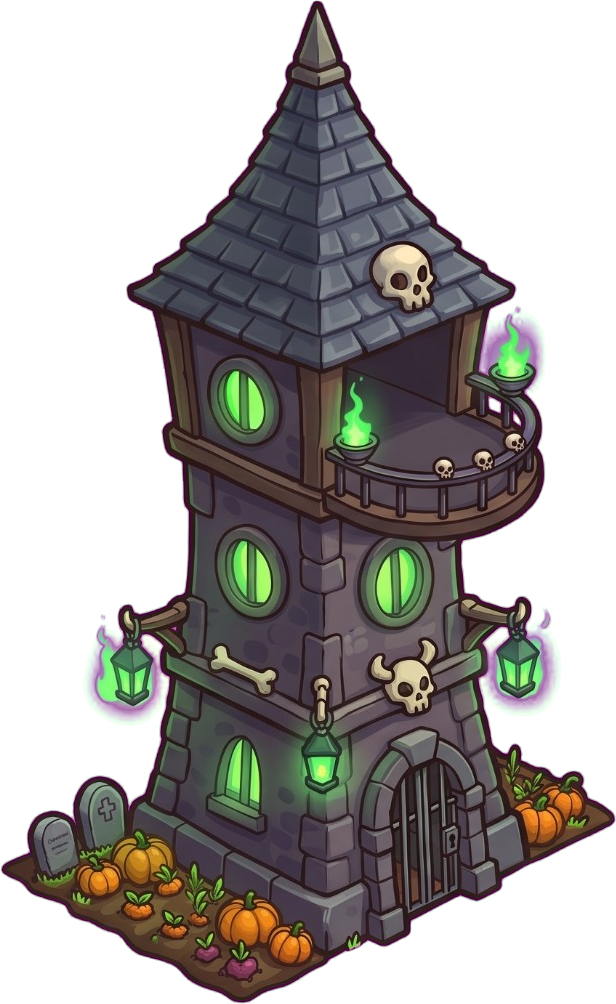
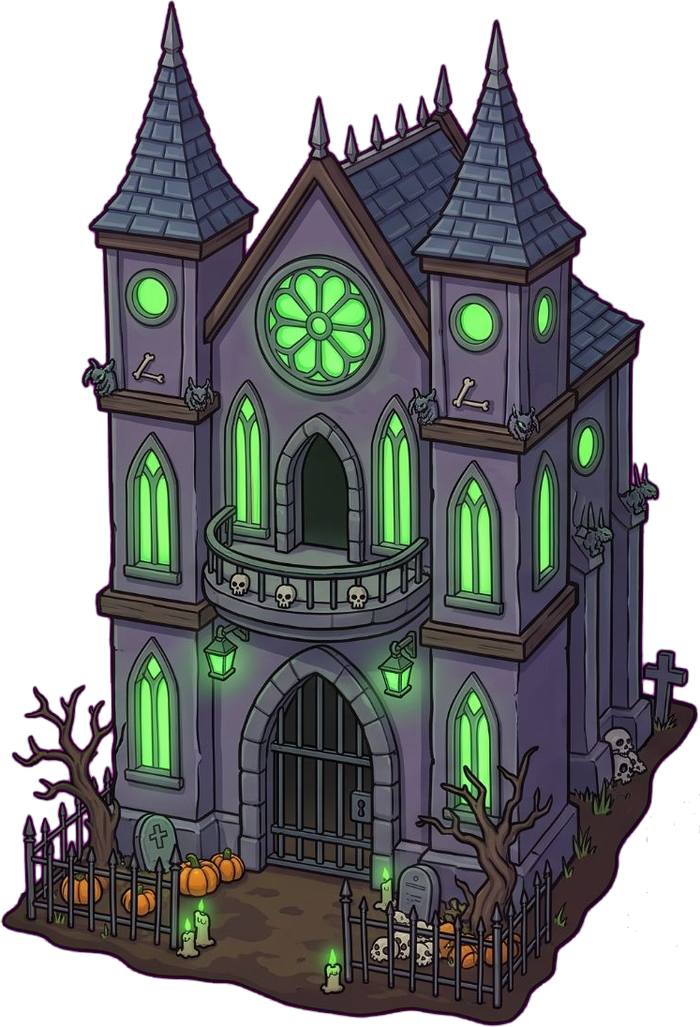
Kale yerine Mortimer'ın kara şapeli (3 hasar evresi, ön balkon yola bakar); Mortimer balkonda doğru boyda, korkuluğun arkasında, evreye göre konumlanır; okçu yerleri şapele göre

diff --git a/sinir-kalesi/js/game.js b/sinir-kalesi/js/game.js
@@ -3149,16 +3149,21 @@ function raiseMinion(e, delay = 0) {
   G.effects.push({ kind: 'pillar', x: e.x, y: e.y, col: '140,255,140', t: 0, dur: 0.7 });
   for (let i = 0; i < 8; i++) emit(G.parts, { kind: 'glow', add: true, x: e.x + rand(-8, 8), y: e.y - rand(0, 20), vy: -rand(20, 45), col: '140,255,120', s0: rand(2, 4), s1: 0.5, life: rand(0.5, 0.9) });
 }
-// Mortimer'ın balkondaki ayak noktası (kule görselinin balkonu)
-// Mortimer kale görselinde balkonun ön kenarına basar (görsel oranı) ve kale genişliğine göre büyük durur
-const MORT_AT = [0.69, 0.47], MORT_H = 62;
-// balkon korkuluğu (görsel oranı x0, y0, x1, y1): Mortimer'dan sonra yeniden çizilir, ayakları korkuluğun arkasında kalır
-const MORT_RAIL = [0.5, 0.458, 0.92, 0.56];
+// Mortimer şapelin ön balkonunda durur. Hasar evresine göre (castle_1..3): at = ayak noktası (görsel oranı),
+// rail = korkuluk dikdörtgeni (x0, y0, x1, y1; Mortimer'dan sonra yeniden çizilir, ayakları korkuluğun arkasında kalır;
+// 3. evrede korkuluk kırık). MORT_PX: Mortimer'ın boyu, kale görselinin pikseliyle (balkon kapısından biraz uzun).
+const MORT_STAGE = [null,
+  { at: [0.454, 0.558], rail: [0.29, 0.548, 0.625, 0.6] },
+  { at: [0.454, 0.562], rail: [0.29, 0.551, 0.625, 0.6] },
+  { at: [0.515, 0.558], rail: null }];
+const MORT_PX = 125;
+function castleStage() { const r = G.lives / G.maxLives; return r > 0.6 ? 1 : r > 0.3 ? 2 : 3; }
+function castleStageSprite() { return spr('castle_' + castleStage()) || spr('castle_1') || spr('tower_barracks_3'); }
 function mortimerPoint() {
-  const c = G.castle, im = castleSprite();
-  if (!im) return { x: c.x, y: c.y - 60 };
-  const cp = castlePlace(c.x, c.y, im), h = cp.w * im.height / im.width;
-  return { x: cp.x - cp.w / 2 + MORT_AT[0] * cp.w, y: cp.y - h + MORT_AT[1] * h };
+  const c = G.castle, im = castleStageSprite();
+  if (!im) return { x: c.x, y: c.y - 60, h: 30 };
+  const cp = castlePlace(c.x, c.y, im), h = cp.w * im.height / im.width, S = MORT_STAGE[castleStage()] || MORT_STAGE[1];
+  return { x: cp.x - cp.w / 2 + S.at[0] * cp.w, y: cp.y - h + S.at[1] * h, h: MORT_PX * cp.w / im.width };
 }
 // büyü düğmesi simgeleri: diriltme = yerden kalkan iskelet, korku = çığlık atan hayalet
 function drawNecroGlyph(id, r) {
@@ -3189,7 +3194,7 @@ function drawNecroGlyph(id, r) {
 function drawMortimer() {
   const im = spr('mortimer');
   if (!im) return;
-  const m = mortimerPoint(), hgt = MORT_H, k = G.mortCast > 0 ? Math.sin(clamp(1 - G.mortCast / 0.9, 0, 1) * Math.PI) : 0;
+  const m = mortimerPoint(), hgt = m.h, k = G.mortCast > 0 ? Math.sin(clamp(1 - G.mortCast / 0.9, 0, 1) * Math.PI) : 0;
   const bob = Math.sin(time * 1.6) * 0.5, face = 1; // önden görünüş: balkondan ekrana/aşağı bakar, aynalanmaz
   // arkasında mor-yeşil büyü halesi: kulenin üstünde belirgin dursun
   ctx.save(); ctx.globalCompositeOperation = 'lighter';
@@ -6593,15 +6598,14 @@ function towerStats(type, L) {
 // Eski yedek görsel (kışla) ise kale noktasına ortalanır.
 function castlePlace(x, y, im) {
   if (im === spr('tower_barracks_3')) return { x, y, w: 118 * BUILD_K };
-  if (NECRO) return { x: x - 43, y: y + 6, w: 96 };
+  if (NECRO) return { x: Math.min(x + 4, 960 - 70), y: y + 30, w: 135 }; // şapel: kapı ortada, kapı eşiği yolun ucunda; ekran kenarına taşmaz
   return { x: x - 15 * BUILD_K, y: y + 10, w: 124 * BUILD_K };
 }
 
 // Kale: Gemini sprite'ı (castle_1..3, hasar evresine göre) yoksa kışlanın en büyük hali yedek olarak kullanılır.
 function drawCastle() {
-  const c = G.castle, ratio = G.lives / G.maxLives;
-  const stage = ratio > 0.6 ? 1 : ratio > 0.3 ? 2 : 3;
-  const im = spr('castle_' + stage) || spr('castle_1') || spr('tower_barracks_3');
+  const c = G.castle, ratio = G.lives / G.maxLives, stage = castleStage();
+  const im = castleStageSprite();
   const sh = c.shake > 0 ? Math.sin(c.shake * 70) * c.shake * 8 : 0;
   if (im) {
     const cp = castlePlace(c.x, c.y, im);
@@ -6612,13 +6616,15 @@ function drawCastle() {
     drawCastleArchers();
     if (NECRO) {
       drawMortimer();
-      const h = cp.w * im.height / im.width, R = MORT_RAIL, x0 = cp.x + sh - cp.w / 2, y0 = cp.y - h;
-      ctx.save(); ctx.beginPath(); ctx.rect(x0 + R[0] * cp.w, y0 + R[1] * h, (R[2] - R[0]) * cp.w, (R[3] - R[1]) * h); ctx.clip();
-      ctx.translate(cp.x + sh, cp.y); drawSprite(ctx, im, 0, 0, cp.w); ctx.restore();
+      const h = cp.w * im.height / im.width, R = (MORT_STAGE[stage] || {}).rail, x0 = cp.x + sh - cp.w / 2, y0 = cp.y - h;
+      if (R) {
+        ctx.save(); ctx.beginPath(); ctx.rect(x0 + R[0] * cp.w, y0 + R[1] * h, (R[2] - R[0]) * cp.w, (R[3] - R[1]) * h); ctx.clip();
+        ctx.translate(cp.x + sh, cp.y); drawSprite(ctx, im, 0, 0, cp.w); ctx.restore();
+      }
     }
     if (G.sel && G.sel.kind === 'castle') {
       ctx.save(); ctx.strokeStyle = `rgba(255,230,160,${0.9 * clamp((time - G.menuT) / 0.25, 0, 1)})`; ctx.lineWidth = 2.5;
-      ctx.beginPath(); ctx.ellipse(c.x - 12, c.y + 4, 56 + Math.sin(time * 6) * 1.5, 22, 0, 0, Math.PI * 2); ctx.stroke(); ctx.restore();
+      ctx.beginPath(); ctx.ellipse(c.x - (NECRO ? -4 : 12), c.y + (NECRO ? 14 : 4), (NECRO ? 72 : 56) + Math.sin(time * 6) * 1.5, NECRO ? 26 : 22, 0, 0, Math.PI * 2); ctx.stroke(); ctx.restore();
     }
     // kale seviyesi: can barının yanında küçük yıldızlar
     for (let i = 0; i <= c.lvl; i++) fancyStar(c.x + 46 + i * 9, c.y + 22, 4.5, true);

diff --git a/sinir-kalesi/js/data.js b/sinir-kalesi/js/data.js
@@ -832,7 +832,7 @@ HERO_ORDER.splice(0, HERO_ORDER.length, 'commander', 'zeynep');
 Object.assign(HERO_ULT.commander, { name: 'Kan Kılıçları' });
 Object.assign(HERO_ULT.zeynep, { name: 'Ölüm Çığlığı', cd: 50, r: 82, dmg: [26, 36], stun: 1.6, desc: 'Wren çığlık atar: alandaki düşmanlar hasar alır ve 1,6 sn sersemler' });
 // kale yerine Mortimer'ın kulesi: balkonda Mortimer durur, okçular pencere önlerinde
-Object.assign(CASTLE, { spots: [[0.28, 0.57], [0.84, 0.6], [0.4, 0.4]] });
+Object.assign(CASTLE, { spots: [[0.21, 0.385], [0.67, 0.41], [0.46, 0.16]] }); // şapel: iki kulenin çıkıntısı ve alınlık tepesi
 // Mortimer'ın büyüleri (sol altta, bekleme süreli). raise: hedefsiz, süre boyunca ölen düşmanlar iskelet minyon olur.
 // fear: hedefli alan, düşmanlar kavgayı bırakıp yolda geri kaçar (bosslar yarı süre).
 const NECRO_SPELLS = {

diff --git a/sinir-kalesi/index.html b/sinir-kalesi/index.html
@@ -13,7 +13,7 @@
 <canvas id="game" aria-label="Sınır Kalesi oyun alanı"></canvas>
 <script>
   // Sürüm damgası: her yayında artırılır; tarayıcı eski önbellek kopyasını kullanmaz (js ve görseller).
-  window.SURUM = '54';
+  window.SURUM = '55';
   for (const f of ['js/data.js', 'js/game.js']) document.write('<script src="' + f + '?v=' + window.SURUM + '"><\/script>');
 </script>
 

diff --git a/sinir-kalesi/yayin.html b/sinir-kalesi/yayin.html
@@ -13,6 +13,6 @@
 <canvas id="game" aria-label="Sınır Kalesi oyun alanı"></canvas>
 <script>
   // Sürüm damgası: her yayında artırılır; tarayıcı eski önbellek kopyasını kullanmaz (js ve görseller).
-  window.SURUM = '54';
+  window.SURUM = '55';
   for (const f of ['js/data.js', 'js/game.js']) document.write('<script src="' + f + '?v=' + window.SURUM + '"><\/script>');
 </script>

diff --git a/varliklar/nm_isle.py b/varliklar/nm_isle.py
@@ -18,7 +18,7 @@ TOWER_BASE = 0.13  # kule: arsa merkezinin görselin altından uzaklığı (geni
 
 # sayfa, adlar (sıralı), tür, ek
 SHEETS = [
-    ('nm_kule.jpg', ['castle_1', 'castle_2', 'castle_3'], 'castle'),
+    ('nm_sapel.jpg', ['castle_1', 'castle_2', 'castle_3'], 'castle'),  # Mortimer'ın kara şapeli, boş balkon (eski kule: nm_kule.jpg)
     ('nm_mahzen.jpg', ['tower_barracks_1', 'tower_barracks_2', 'tower_barracks_3'], 'tower'),
     ('nm_dikilitas.jpg', ['tower_archer_1', 'tower_archer_2', 'tower_archer_3'], 'tower'),  # 8 Eki: okçu yerine Kemik Dikilitaşı
     ('nm_fener.jpg', ['tower_mage_1', 'tower_mage_2', 'tower_mage_3'], 'tower'),  # Ruh Feneri
@@ -35,12 +35,16 @@ SHEETS = [
                       'nm_tomb_1', 'nm_tomb_2', 'nm_tomb_3', 'nm_bones', 'nm_shroom', 'nm_bush',
                       'nm_rock_1', 'nm_rock_2', 'nm_pond', 'nm_fence', 'nm_crow'], 'decor'),
 ]
+# yarı saydam duman magenta zeminden mor/yeşil renk alır: bu görsellerde ateş dışındaki yarı saydam pikseller griye çekilir
+SMOKE_FIX = {'castle_2', 'castle_3'}
 FLIP = {'enemy_ram'}  # sola bakan görseller aynalanır
 # komşu nesneden taşan parçalar: kaynak sayfada silinecek dikdörtgenler (x0, y0, x1, y1)
 ERASE = {
     'enemy_priest': [(0, 0, 1070, 1116), (1330, 0, 2000, 592), (1475, 0, 2000, 1116)],
     'enemy_gloriosus': [(0, 0, 1330, 1116), (1330, 596, 1478, 745)],
     'hero_vladrik': [(522, 230, 800, 600)],
+    'castle_2': [(1290, 0, 1420, 300)],  # sağ kuleden yukarı savrulan duman
+    'castle_3': [(1150, 0, 1430, 860), (1150, 860, 1340, 1116)],  # soldaki 2. evreden taşan kule/haç/duman
     'mortimer': [(0, 760, 400, 1116), (800, 700, 1000, 1116)],  # eteğin iki yanına savrulan duman (görseli genişletiyor)
 }
 
@@ -191,7 +195,18 @@ def main():
             if name in ERASE:
                 src = rgba.copy()
                 for x0, y0, x1, y1 in ERASE[name]: src[y0:y1, x0:x1, 3] = 0
-            im = Image.fromarray(crop(src, o, big))
+            c = crop(src, o, big)
+            if name in SMOKE_FIX:
+                rgb = c[..., :3].astype(np.float32); r, g, b = rgb[..., 0], rgb[..., 1], rgb[..., 2]
+                fire = (r > g) & (r > b + 40)
+                pur = (r + b) / 2 - g  # magentaya karışmış duman: kırmızı+mavi yeşilden belirgin fazla
+                m = ((c[..., 3] < 245) | (pur > 30)) & ~fire
+                lum = 0.3 * r + 0.55 * g + 0.15 * b
+                gray = np.where(pur > 30, g * 1.15, lum)
+                for ch in range(3): rgb[..., ch] = np.where(m, gray * (1.0, 0.97, 0.95)[ch], rgb[..., ch])
+                al = c[..., 3].astype(np.float32) * np.where(pur > 30, 1 - np.clip((pur - 30) / 110, 0, 0.85), 1)
+                c = np.dstack([rgb.clip(0, 255).astype(np.uint8), al.astype(np.uint8)])
+            im = Image.fromarray(c)
             if name in FLIP: im = im.transpose(Image.FLIP_LEFT_RIGHT)
             if kind == 'unit' and im.height > UNIT_H * 1.05:
                 k = UNIT_H / im.height
